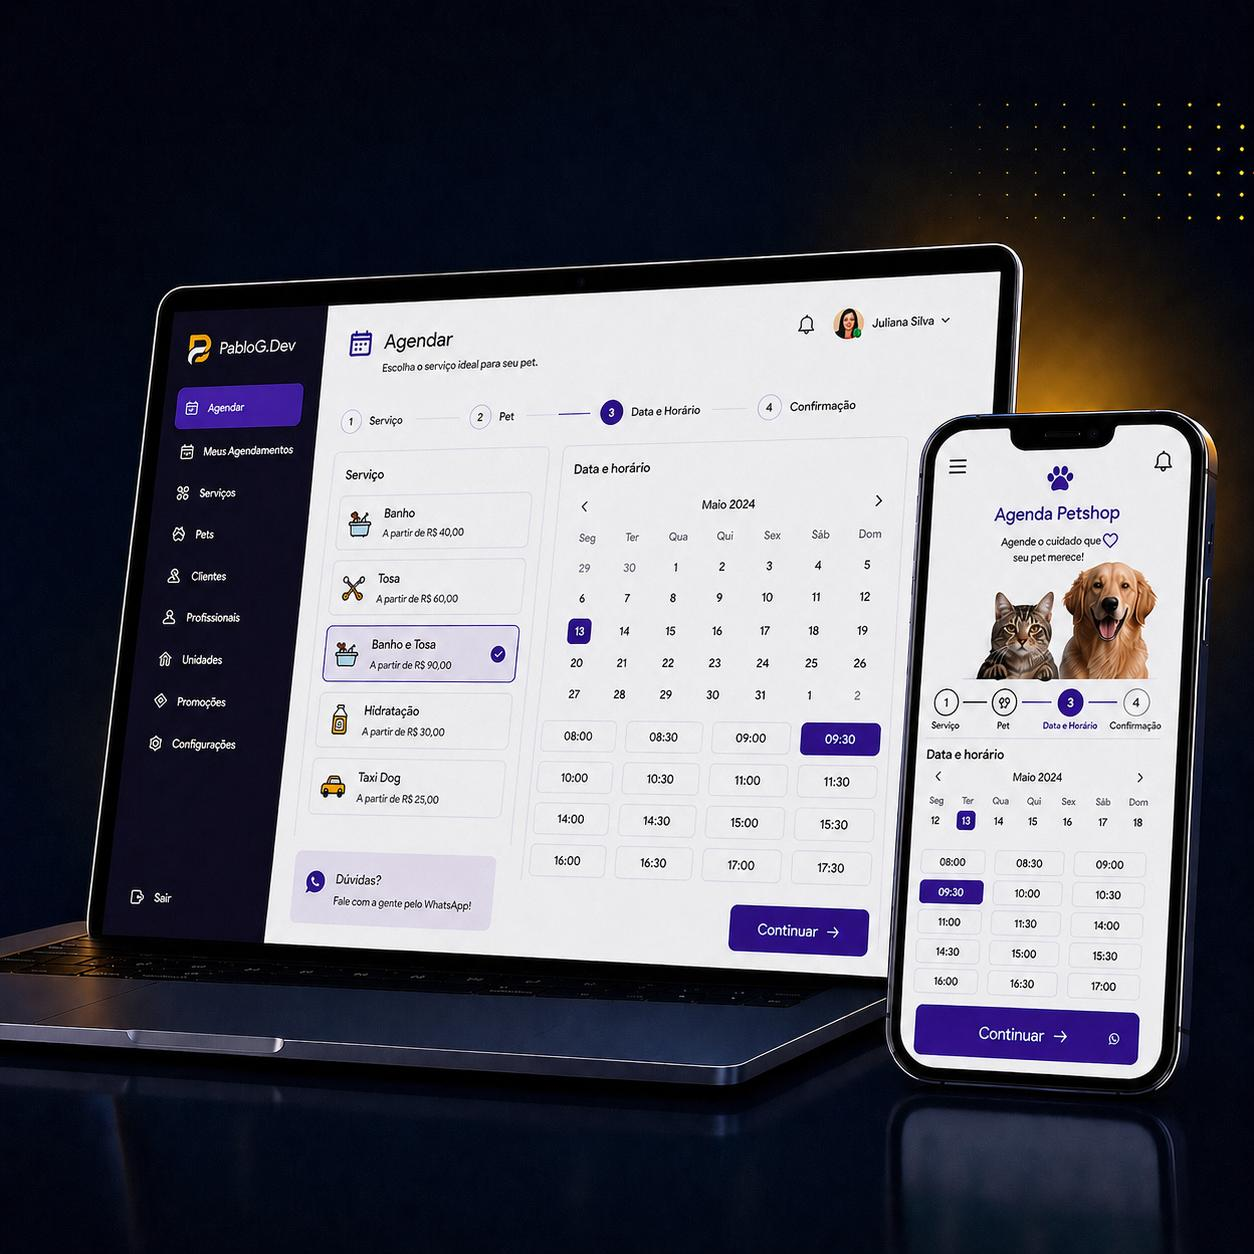
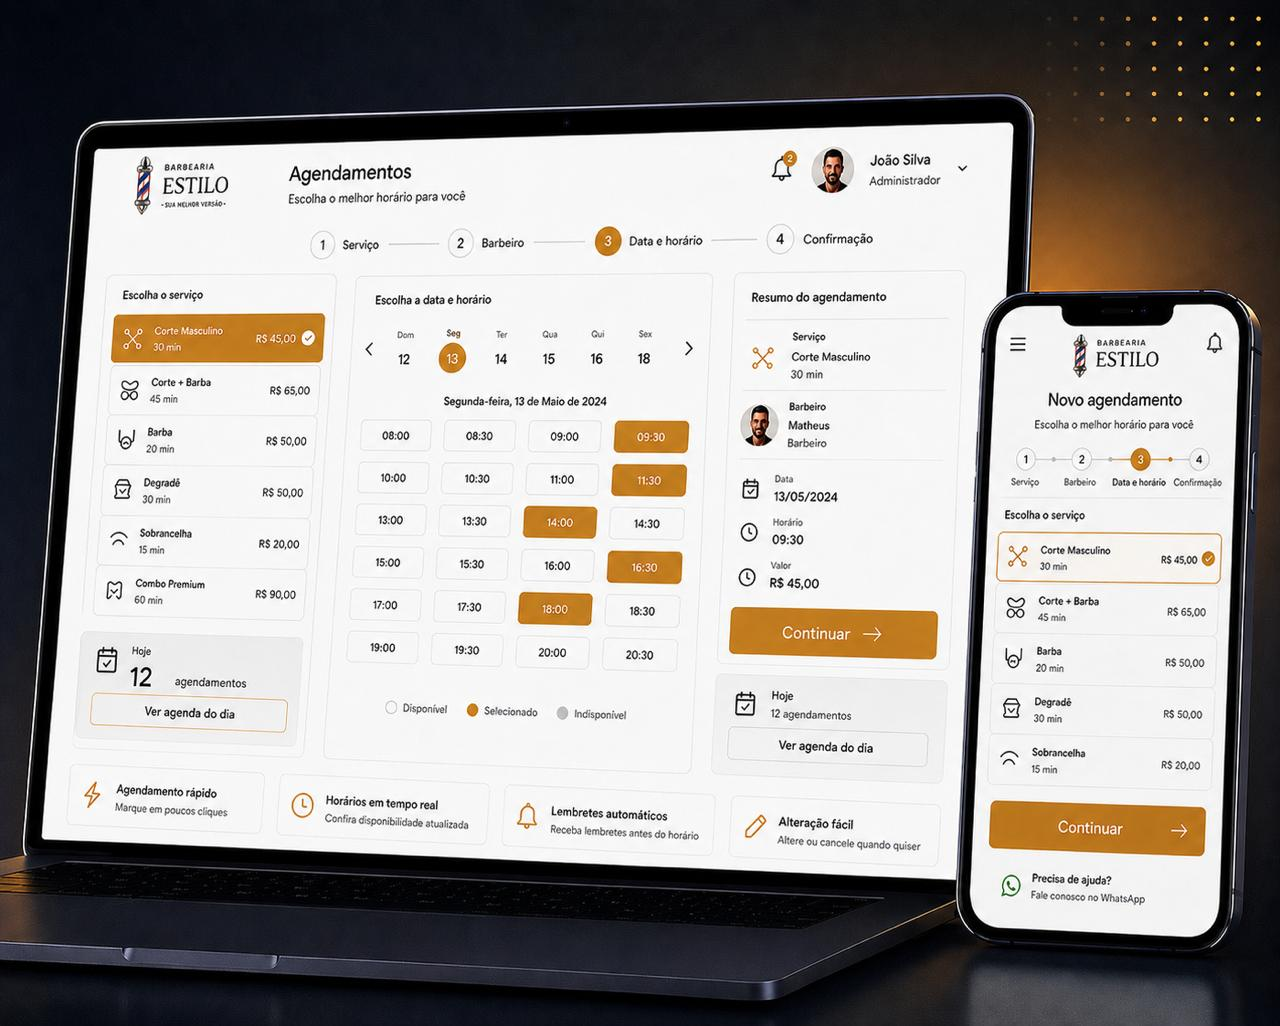
update

diff --git a/src/new-site/components/Hero/Hero.tsx b/src/new-site/components/Hero/Hero.tsx
@@ -20,32 +20,33 @@ export default function Hero({ language }: HeroProps) {
       <div className="hero-container">
         <div className="hero-content">
           <h1 className="hero-title">
-            Sites e sistemas{' '}
-            <span className="hero-highlight">profissionais</span>
-            <br /> para seu negócio
+            {language === 'pt' ? 'Sites e sistemas' : 'Sitios y sistemas'}{' '}
+            <span className="hero-highlight">{language === 'pt' ? 'profissionais' : 'profesionales'}</span>
+            <br /> {language === 'pt' ? 'para seu negócio' : 'para tu negocio'}
           </h1>
 
           <p className="hero-text">
-            Desenvolvimento de sites institucionais, landing pages, 
-            sistemas web e automações. Tudo sob medida para sua empresa.
+            {language === 'pt' 
+              ? 'Desenvolvimento de sites institucionais, landing pages, sistemas web e automações. Tudo sob medida para sua empresa.'
+              : 'Desarrollo de sitios institucionales, landing pages, sistemas web y automatizaciones. Todo a medida para tu empresa.'}
           </p>
 
           <div className="hero-features">
             <div className="feature">
               <CheckCircle size={18} />
-              <span>Sites responsivos e otimizados</span>
+              <span>{language === 'pt' ? 'Sites responsivos e otimizados' : 'Sitios responsivos y optimizados'}</span>
             </div>
             <div className="feature">
               <CheckCircle size={18} />
-              <span>Sistemas personalizados</span>
+              <span>{language === 'pt' ? 'Sistemas personalizados' : 'Sistemas personalizados'}</span>
             </div>
             <div className="feature">
               <CheckCircle size={18} />
-              <span>Automação de processos</span>
+              <span>{language === 'pt' ? 'Automação de processos' : 'Automatización de procesos'}</span>
             </div>
             <div className="feature">
               <CheckCircle size={18} />
-              <span>Suporte e manutenção</span>
+              <span>{language === 'pt' ? 'Suporte e manutenção' : 'Soporte y mantenimiento'}</span>
             </div>
           </div>
 
@@ -56,7 +57,7 @@ export default function Hero({ language }: HeroProps) {
               rel="noopener noreferrer" 
               className="hero-btn primary"
             >
-              Solicitar orçamento
+              {content.hero.primaryButton}
               <ArrowRight size={16} />
             </a>
             <ProjectPreview language={language} />
@@ -65,15 +66,15 @@ export default function Hero({ language }: HeroProps) {
           <div className="hero-stats">
             <div className="stat">
               <Lightbulb size={18} color="#fec90f" />
-              Ideia <span>→ Projeto</span>
+              {language === 'pt' ? 'Ideia' : 'Idea'} <span>{language === 'pt' ? '→ Projeto' : '→ Proyecto'}</span>
             </div>
             <div className="stat">
               <Code size={18} color="#fec90f" />
-              Projeto <span>→ Site no ar</span>
+              {language === 'pt' ? 'Projeto' : 'Proyecto'} <span>{language === 'pt' ? '→ Site no ar' : '→ Sitio online'}</span>
             </div>
             <div className="stat">
               <TrendingUp size={18} color="#fec90f" />
-              Site <span>→ Resultado</span>
+              {language === 'pt' ? 'Site' : 'Sitio'} <span>{language === 'pt' ? '→ Resultado' : '→ Resultado'}</span>
             </div>
           </div>
         </div>

diff --git a/src/new-site/components/Projects/Projects.css b/src/new-site/components/Projects/Projects.css
@@ -72,60 +72,28 @@
   box-shadow: 0 10px 30px rgba(0, 0, 0, 0.1);
 }
 
-.project-card::before {
-  content: '';
-  position: absolute;
-  top: 10px;
-  left: 10px;
-  width: 20px;
-  height: 20px;
-  border-top: 2px solid #ffffff;
-  border-left: 2px solid #ffffff;
-  opacity: 0;
-  transition: opacity 0.3s;
-  z-index: 2;
-}
-
-.project-card::after {
-  content: '';
-  position: absolute;
-  bottom: 10px;
-  right: 10px;
-  width: 20px;
-  height: 20px;
-  border-bottom: 2px solid #ffffff;
-  border-right: 2px solid #ffffff;
-  opacity: 0;
-  transition: opacity 0.3s;
-  z-index: 2;
-}
-
-.project-card:hover::before,
-.project-card:hover::after {
-  opacity: 1;
-}
-
 .project-card img {
   width: 100%;
   height: 100%;
   object-fit: cover;
-  transition: transform 0.3s;
+  transition: transform 0.4s ease;
 }
 
 .project-card:hover img {
-  transform: scale(1.05);
+  transform: scale(1.08);
 }
 
+/* Overlay que aparece no hover */
 .project-overlay {
   position: absolute;
   inset: 0;
-  background: #000c24;
+  background: linear-gradient(to top, rgba(0, 12, 36, 0.95) 0%, rgba(0, 12, 36, 0.85) 50%, transparent 100%);
   display: flex;
   flex-direction: column;
   justify-content: flex-end;
   padding: 24px;
   opacity: 0;
-  transition: opacity 0.3s;
+  transition: opacity 0.3s ease;
 }
 
 .project-card:hover .project-overlay {
@@ -134,24 +102,43 @@
 
 .project-overlay span {
   color: #fec90f;
-  font-size: 0.75rem;
+  font-size: 0.7rem;
   font-weight: 600;
   text-transform: uppercase;
   letter-spacing: 0.1em;
   margin-bottom: 8px;
+  transform: translateY(10px);
+  transition: transform 0.3s ease;
+}
+
+.project-card:hover .project-overlay span {
+  transform: translateY(0);
 }
 
 .project-overlay h3 {
   color: #ffffff;
-  font-size: 1.5rem;
+  font-size: 1.2rem;
   font-weight: 700;
-  margin: 0 0 8px;
+  margin: 0 0 6px;
+  transform: translateY(10px);
+  transition: transform 0.3s ease 0.05s;
+}
+
+.project-card:hover .project-overlay h3 {
+  transform: translateY(0);
 }
 
 .project-overlay p {
-  color: rgba(255, 255, 255, 0.7);
-  font-size: 0.875rem;
+  color: rgba(255, 255, 255, 0.8);
+  font-size: 0.8rem;
+  line-height: 1.4;
   margin: 0;
+  transform: translateY(10px);
+  transition: transform 0.3s ease 0.1s;
+}
+
+.project-card:hover .project-overlay p {
+  transform: translateY(0);
 }
 
 @media (max-width: 900px) {
@@ -170,31 +157,33 @@
   }
 }
 
-/* Botão Ver mais */
+/* Botão Ver mais - ultra clean */
 .projects-more {
   display: flex;
   justify-content: center;
-  margin-top: 40px;
+  margin-top: 56px;
 }
 
 .show-more-btn {
   display: inline-flex;
   align-items: center;
-  gap: 10px;
-  padding: 14px 32px;
-  background: #000c24;
+  gap: 8px;
+  background: transparent;
+  color: #000c24;
+  padding: 8px 0;
   border: none;
-  border-radius: 100px;
-  color: #ffffff;
-  font-size: 0.9375rem;
+  border-bottom: 1.5px solid #000c24;
+  font-size: 1.2rem;
   font-weight: 500;
   cursor: pointer;
   transition: all 0.2s ease;
 }
 
 .show-more-btn:hover {
-  background: #0d1525;
-  transform: translateY(-2px);
+  gap: 12px;
+  border-bottom-color: #fec90f;
+  color: #000c24;
+  opacity: 0.7;
 }
 
 .arrow {

diff --git a/src/new-site/components/Projects/Projects.tsx b/src/new-site/components/Projects/Projects.tsx
@@ -22,6 +22,22 @@ export default function Projects({ language }: ProjectsProps) {
   const content = language === 'pt' ? pt : es
   const [showAll, setShowAll] = useState(false)
 
+  const handleShowMore = () => {
+    const currentScrollY = window.scrollY
+    setShowAll(true)
+    setTimeout(() => {
+      window.scrollTo(0, currentScrollY)
+    }, 0)
+  }
+
+  const handleShowLess = () => {
+    const currentScrollY = window.scrollY
+    setShowAll(false)
+    setTimeout(() => {
+      window.scrollTo(0, currentScrollY)
+    }, 0)
+  }
+
   const visibleProjects = showAll 
     ? content.projects.items 
     : content.projects.items.slice(0, Math.min(3, projectImages.length))
@@ -49,13 +65,17 @@ export default function Projects({ language }: ProjectsProps) {
 
         {content.projects.items.length > 3 && (
           <div className="projects-more">
-            <button 
-              className="show-more-btn"
-              onClick={() => setShowAll(!showAll)}
-            >
-              {showAll ? 'Ver menos' : 'Ver mais projetos'}
-              <ChevronDown size={20} className={`arrow ${showAll ? 'rotate' : ''}`} />
-            </button>
+            {!showAll ? (
+              <button className="show-more-btn" onClick={handleShowMore}>
+                {language === 'pt' ? 'Ver mais projetos' : 'Ver más proyectos'}
+                <ChevronDown size={20} className="arrow" />
+              </button>
+            ) : (
+              <button className="show-more-btn" onClick={handleShowLess}>
+                {language === 'pt' ? 'Ver menos' : 'Ver menos'}
+                <ChevronDown size={20} className="arrow rotate" />
+              </button>
+            )}
           </div>
         )}
       </div>

diff --git a/src/new-site/i18n/es.ts b/src/new-site/i18n/es.ts
@@ -109,6 +109,30 @@ export const es = {
         results: ['Mensaje objetivo', 'Visual premium', 'CTA estratégico'],
         linkLabel: 'Ver proyecto',
       },
+      {
+        category: 'E-commerce',
+        title: 'Tienda virtual completa para vender más',
+        description:
+          'Plataforma de ventas online con gestión de productos, pagos y entregas integradas.',
+        results: ['Vitrina de productos', 'Checkout optimizado', 'Panel de gestión'],
+        linkLabel: 'Ver proyecto',
+      },
+      {
+        category: 'Dashboard',
+        title: 'Panel de control para toma de decisiones',
+        description:
+          'Dashboard con métricas, gráficos y reportes para seguir el rendimiento del negocio.',
+        results: ['Indicadores visuales', 'Reportes en tiempo real', 'Filtros personalizados'],
+        linkLabel: 'Ver detalles',
+      },
+      {
+        category: 'Portal web',
+        title: 'Portal con área de miembros y contenido exclusivo',
+        description:
+          'Estructura completa para portales de contenido con login, suscripciones y áreas restringidas.',
+        results: ['Área de miembros', 'Gestión de suscripciones', 'Contenido exclusivo'],
+        linkLabel: 'Ver proyecto',
+      },
     ],
   },
 

diff --git a/src/new-site/components/Services/Services.tsx b/src/new-site/components/Services/Services.tsx
@@ -17,10 +17,10 @@ export default function Services({ language }: ServicesProps) {
     <section className="services" id="servicos">
       <div className="services-container">
         <div className="services-header">
-          <span className="services-label">O que fazemos</span>
+          <span className="services-label">{content.services.badge}</span>
           <h2 className="services-title">
             {content.services.title}
-            <span>{content.services.highlight}</span>
+            <span> {content.services.highlight}</span>
           </h2>
         </div>
 
